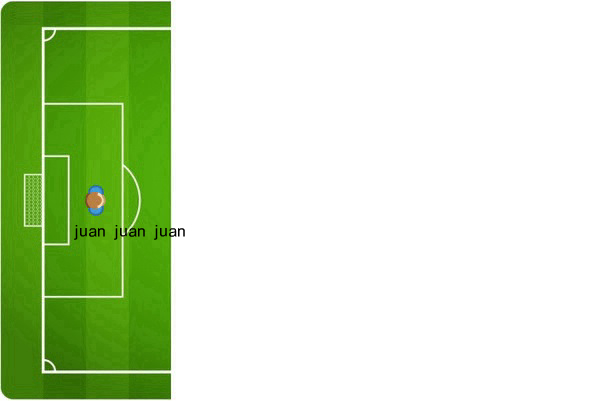
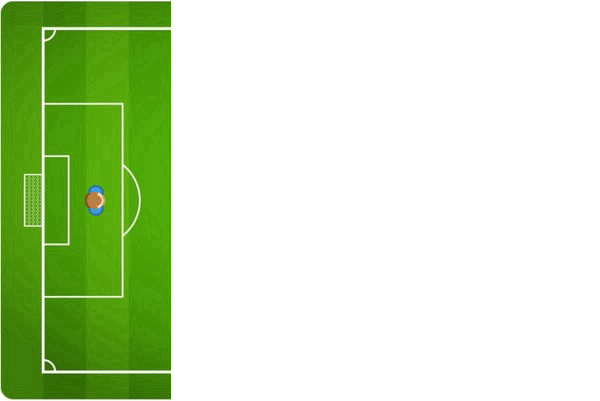
Refactor image generation

Changed region(s): [[0.12, 0.0898, 0.33, 0.8978], [0.27, 0.0, 0.3, 0.0599], [0.27, 0.9576, 0.3, 0.9875]]

diff --git a/final.js b/final.js
@@ -5,9 +5,10 @@ const bot = new TelegramBot(config.token, {polling: true});
 // Library to manage images
 var Jimp = require("jimp");
 var tools = require('./line_ups.js');
+var crypto = require("crypto");
 // Asynchronous calls
 var Waterfall = require('async-waterfall');
-var picLink = "http://images.all-free-download.com/images/graphiclarge/soccer_field_311115.jpg";
+const picLink = "http://images.all-free-download.com/images/graphiclarge/soccer_field_311115.jpg";
 var alineacionWithNames = [];
 var counter; //counter for the 11 players
 var storeNames = false; 
@@ -166,29 +167,43 @@ function joinImages()
 
 function printNamesOnImage( fullXArray , fullYArray , msg){
 
+    let randomImageName = "Images/" + generateRandomName() + ".jpg";
+    let promises = [];
+
      for (let index = 0; index < fullXArray.length; index++)
     {
         let cordX = fullXArray[index];
-        console.log("Coordinate X:", cordX);
         let cordY = fullYArray[index];
-        console.log("Coordinate Y:", cordY);
         let nameToPrint = alineacionWithNames[index].toString();
-        console.log("Name to print:", nameToPrint);
+        promises.push(new Promise((resolve, reject) => {
+            // Add promise that writes on the image
+            Jimp.read(imageLoaded)
+                .then(function (image) {
+                    loadedImage = image;
+                    return Jimp.loadFont(Jimp.FONT_SANS_16_BLACK);
+                })
+                .then(function (font) {
+                    resolve(loadedImage.print(font, cordX, cordY, nameToPrint)
+                        .write(randomImageName));
+                })
+                .catch(function (err) {
+                    console.error(err);
+                    reject();
+                });
+            })
+        )
 
-        Jimp.read(imageLoaded)
-        .then(function (image) {
-            loadedImage = image;
-            return Jimp.loadFont(Jimp.FONT_SANS_16_BLACK);
+    }
+    Promise.all(promises)
+        .then(() => {
+            return bot.sendPhoto(msg.chat.id, randomImageName);
         })
-        .then(function (font) {
-            loadedImage.print(font, cordX, cordY, nameToPrint)
-                       .write("Images/fullImage.jpg");
+        .then(() => {
+            // Remove image
         })
         .catch(function (err) {
             console.error(err);
         });
-    }
-    bot.sendPhoto(msg.chat.id, imageLoaded);
 }
 
 //Store lineup chosen into an Array
@@ -197,4 +212,8 @@ function msgToVariables(messageToVariables)
     defendersNumber = messageToVariables.substring(0,1);
     midfildersNumber = messageToVariables.substring(2,3);
     attackersNumber = messageToVariables.substring(4,5);
+}
+
+function generateRandomName() {
+    return crypto.randomBytes(20).toString('hex');
 }

diff --git a/line_ups.js b/line_ups.js
@@ -1,8 +1,8 @@
-var goalkeeperPoint = [85,222];
+var goalkeeperPoint = [83,222];
 var defendersArray = {p1:{ x1: 224, y1 : 82}, p2:{ x2: 189, y2: 181}, p3: {x3 : 189 , y3 : 261}, p4: {x4: 224, y4: 351} };
-var array4Defenders = [[224,189,189,224],[82,181,261,351]];
-var array3Midfilders =[[327,296,327],[109,222,340]];
-var array3Attackers = [[450,503,450],[90,222,345]];
+var array4Defenders = [[222,187,187,222],[82,181,261,351]];
+var array3Midfilders =[[325,297,325],[109,222,340]];
+var array3Attackers = [[448,501,448],[90,222,345]];
 var midfildersArray = {p1:{x1 : 327, y1: 109}, p2:{ x2: 296 , y2 : 222}, p3:{x3 : 327, y3 : 340} };
 var attackersArray = {p1:{x1 : 450, y1: 90}, p2:{ x2: 503 , y2 : 222}, p3 :{ x3 : 450, y3 : 345} };
 var fullXArray = []; //Array storing the X coordinates
